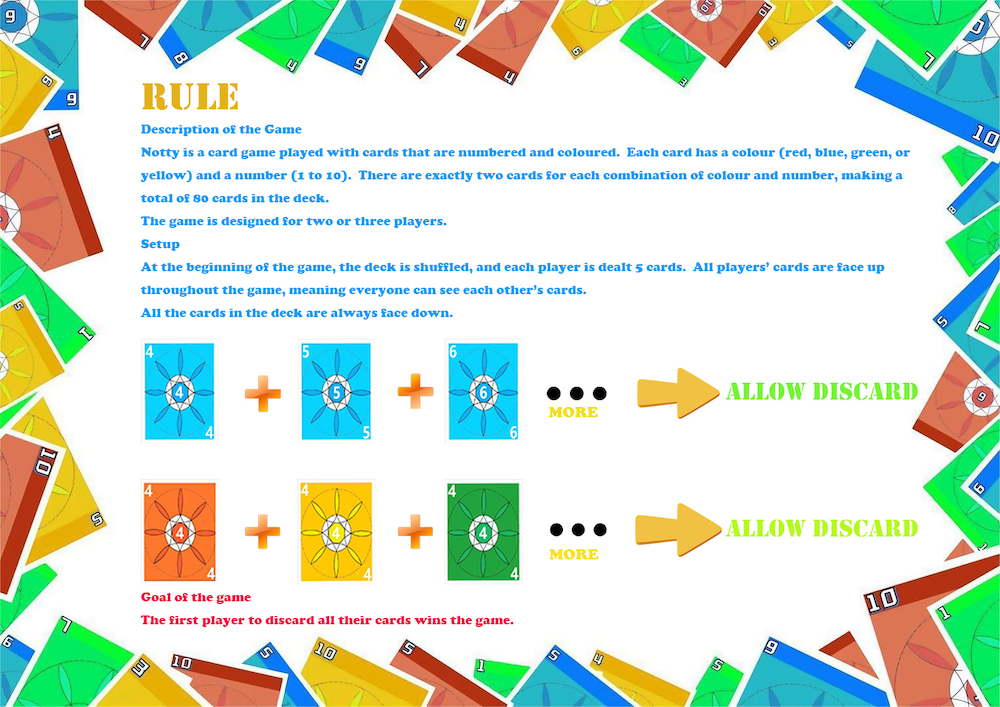
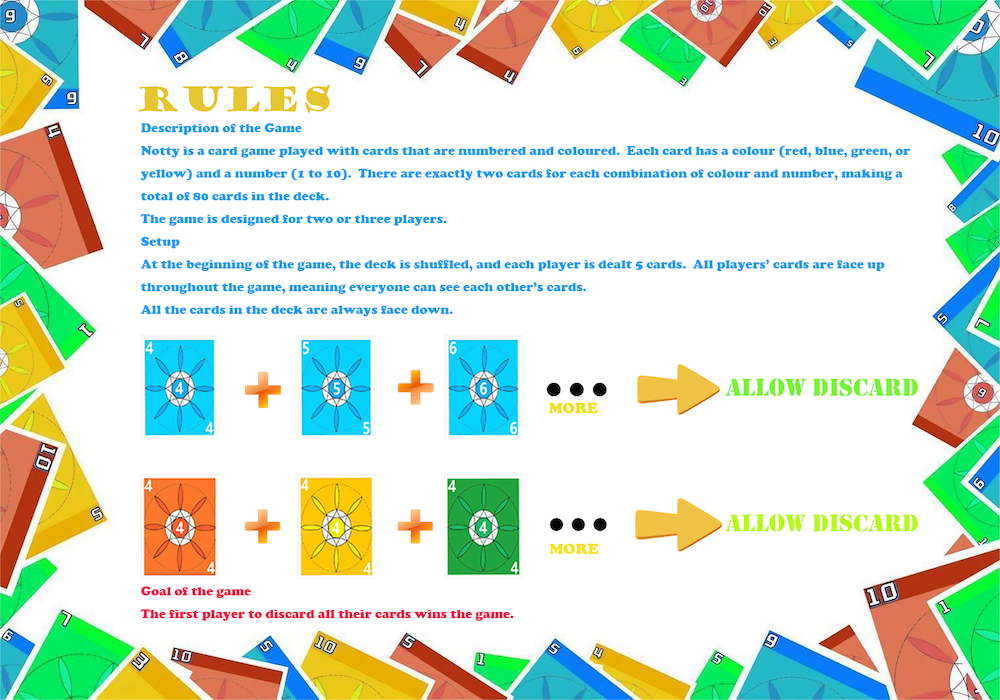
fix game button

diff --git a/GUI_crystal.py b/GUI_crystal.py
@@ -463,30 +463,34 @@ class GUI:
                                 musicOn = True
                         # select VS player
                         if playName1_rect.collidepoint(event.pos) or playName1_rect.collidepoint(event.pos):
-                            if soundOn:
-                                sound.click.play()
-                            if "Grace" in basic.vs_players:
-                                basic.vs_players.remove("Grace")
-                            else:
-                                basic.vs_players.append("Grace")
-                            # print(basic.vs_players)
+                            if basic.play_page == "HOME":
+                                if soundOn:
+                                    sound.click.play()
+                                if "Grace" in basic.vs_players:
+                                    basic.vs_players.remove("Grace")
+                                else:
+                                    basic.vs_players.append("Grace")
+                                # print(basic.vs_players)
                         if playName2_rect.collidepoint(event.pos) or playName2_rect.collidepoint(event.pos):
-                            if soundOn:
-                                sound.click.play()
-                            if "John" in basic.vs_players:
-                                basic.vs_players.remove("John")
-                            else:
-                                basic.vs_players.append("John")
-                            # print(basic.vs_players)
+                            if basic.play_page == "HOME":
+                                if soundOn:
+                                    sound.click.play()
+                                if "John" in basic.vs_players:
+                                    basic.vs_players.remove("John")
+                                else:
+                                    basic.vs_players.append("John")
+                                # print(basic.vs_players)
                         # toggle difficulty
                         if arrowLeft_rect.collidepoint(event.pos):
-                            if soundOn:
-                                sound.click.play()
-                            toggleDifficulty(basic,basic.currentDifficulty,"left")
+                            if basic.play_page == "HOME":
+                                if soundOn:
+                                    sound.click.play()
+                                toggleDifficulty(basic,basic.currentDifficulty,"left")
                         if arrowRight_rect.collidepoint(event.pos):
-                            if soundOn:
-                                sound.click.play()
-                            toggleDifficulty(basic,basic.currentDifficulty,"right")
+                            if basic.play_page == "HOME":
+                                if soundOn:
+                                    sound.click.play()
+                                toggleDifficulty(basic,basic.currentDifficulty,"right")
                         # deal cards
                         if startButt.rect.collidepoint(event.pos) and startButt.clickable:
                             if soundOn:
